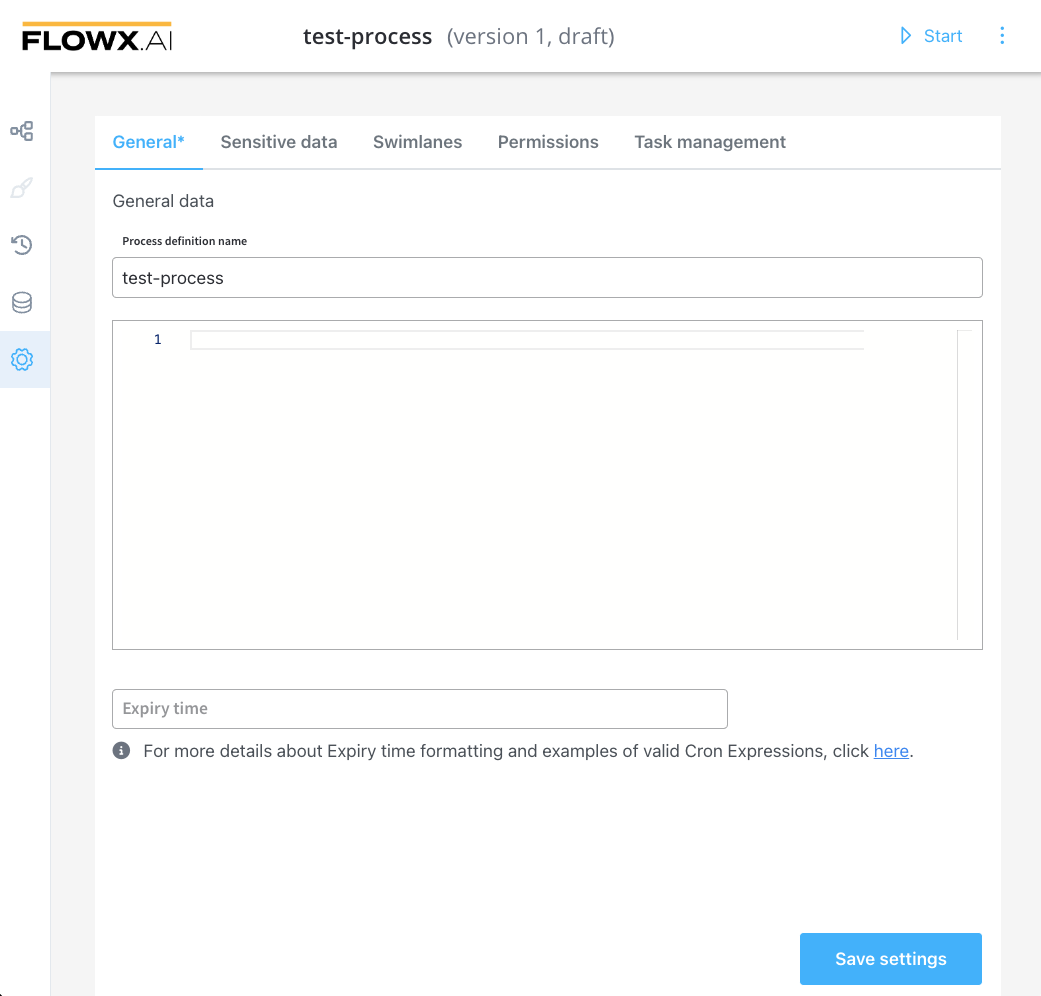
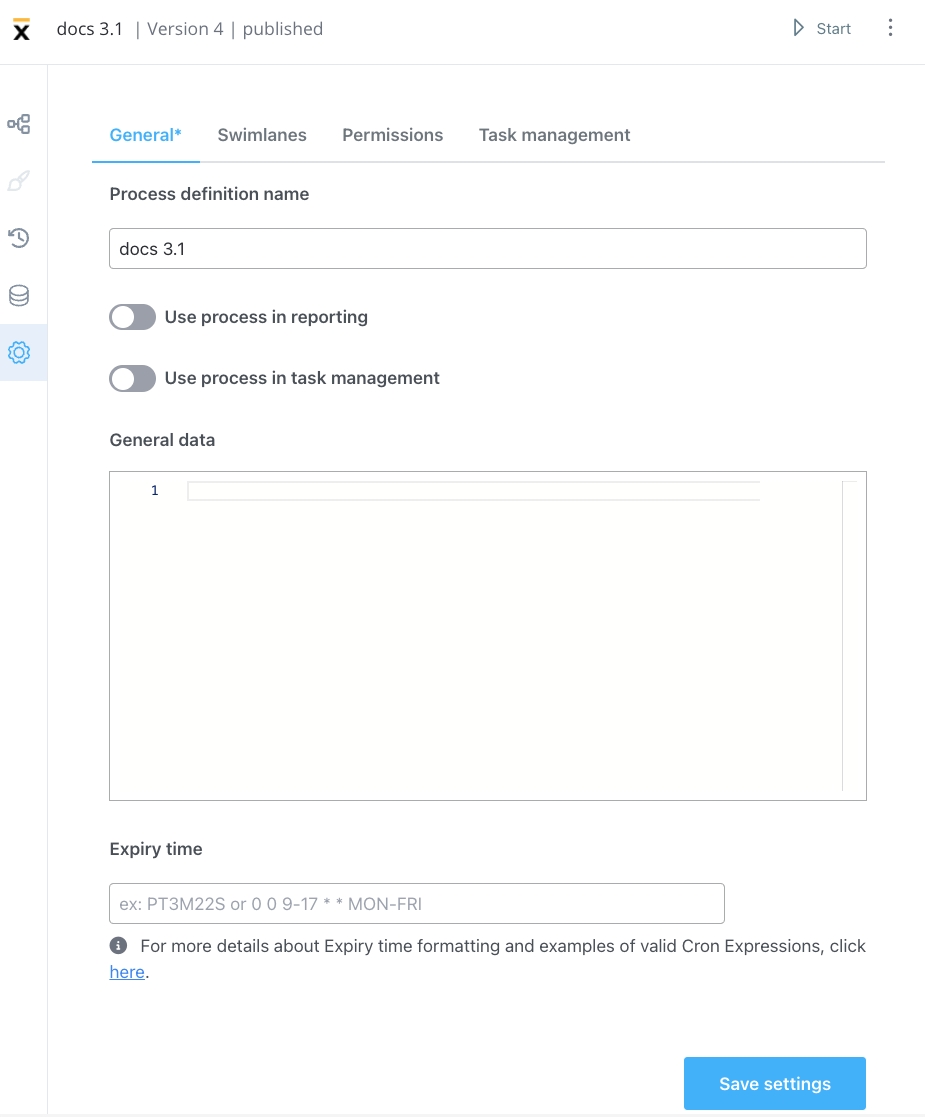
updates task management + fixes

diff --git a/docs/platform-deep-dive/plugins/custom-plugins/task-management/task-management.md b/docs/platform-deep-dive/plugins/custom-plugins/task-management/task-management.md
@@ -4,17 +4,25 @@ sidebar_position: 3
 
 # 📦 Task management
 
-### **What is Task management plugin?**
+### What is Task management plugin?
 
-:::info
-**What is it?** Task Management is a plugin suitable for back-officers and supervisors as it can be used to easily track and assign activities/tasks inside a company.
-
-**Why is it useful?** The Task Management plugin has the scope to show a process that you defined using FLOWX.AI Designer, using a more business-oriented view. It also offers interactions at the assignment level.
-:::
+Task management is a plugin that enables back-officers and supervisors to easily track and assign tasks within a company. It provides a business-oriented view of a process defined using FLOWX.AI Designer and allows interactions at the assignment level.
 
 ![Task Manager](../../../img/task_management_overview.gif)
 
-Inside the **Task details** tab you can find the following information about a process:
+Inside the **Task Manager → All tasks** you can find the **Activities** tab which consists of the following items:
+
+* **Title** - title of the task
+* **Stage** - specific [stages](./using-stages.md) during the execution of a process
+* **Assignee** - assignee of the process
+* **Status** - status of the process, more details [here](#process-status-updates)
+* **Priority** - to prioritize the tasks
+* **Last updated** - timestamp for latest updates
+* **Search** - the search function is used to look for keys stored on the process
+
+![](../../../img/indexed_keys.png)
+
+The **Task details** tab within the **Task Manager** displays key information about a process, such as:
 
 * **Priority** - to prioritize the tasks
 * **Status** - the status of a process
@@ -25,12 +33,19 @@ Inside the **Task details** tab you can find the following information about a p
 ![Task details](../../../img/task_mngmnt_task_details.png)
 
 :::caution
-Specific roles need to be defined in a process to use all the task management features. For more details, check the [Configuring access roles for processes](../../../../platform-setup-guides/flowx-engine-setup-guide/configuring-access-roles-for-processes.md) section.
+It is important to note that specific roles must be defined in a process to use all the task management features. More information about configuring access roles for processes can be found in the [Configuring access roles for processes](../../../../platform-setup-guides/flowx-engine-setup-guide/configuring-access-roles-for-processes.md) section.
 :::
+
+:::caution
+To enable Task Manager to retrieve information about tasks performed on a process make sure **Use process in task management** toggle is switched on. To do this go to **Process definition → Settings → General**.
+:::
+
 
 ### Statuses & Definitions in Task Manager
 
-There are multiple statuses that Task Manager could display, depending on the state of the process.
+Task Manager displays multiple statuses, depending on the state of the process.
+
+#### Process status updates
 
 | Status        | Definition                                                                                                                                                                                                                                                                                                                                                                                                                                                                                                                |
 | ------------- | ------------------------------------------------------------------------------------------------------------------------------------------------------------------------------------------------------------------------------------------------------------------------------------------------------------------------------------------------------------------------------------------------------------------------------------------------------------------------------------------------------------------------- |
@@ -41,20 +56,39 @@ There are multiple statuses that Task Manager could display, depending on the st
 | **Expired**   | <p>This status is displayed when <code>expiryTime</code> field is defined inside the process definition. A user can set up an <code>expiryTime</code> function, by following these steps:</p><ol><li>Go to <strong>FLOWX Designer > Processes > Definitions</strong>.</li><li>Select a process and then click on the "<strong>⋮</strong>" <strong></strong> button then select <strong>Settings.</strong></li><li>Inside the <strong>General</strong> tab, you can edit the <strong>Expiry time</strong> field.</li></ol> |
 | **Aborted**   | This status is available for processes that also contain subprocesses. When a subprocess is running (and the [token is moved backward](https://docs.flowx.ai/flowx-designer/managing-a-process-flow/moving-a-token-backwards-in-a-process) to redo a series of previous actions) - the subprocess will be aborted.                                                                                                                                                                                                        |
 | **Dismissed** | This status is available for processes that also contain subprocesses. This status is displayed when a user stops a subprocess                                                                                                                                                                                                                                                                                                                                                                                            |
-| **On hold**   | The process cannot be edited anymore. A superuser can trigger this status so he can block actions on the process until further clarification - unfreeze.                                                                                                                                                                                                                                                                                                                                                                  |
+| **On hold**   | The process cannot be edited anymore. A superuser can trigger this status, so he can block actions on the process until further clarification - unfreeze.                                                                                                                                                                                                                                                                                                                                                                 |
+|               |                                                                                                                                                                                                                                                                                                                                                                                                                                                                                                                           |
+
+#### Swimlanes updates
+
+| Status             | Definition                            |
+| ------------------ | ------------------------------------- |
+| **Swimlane enter** | When the token enters a new swimlane. |
+| **Swimlane exit**  | When the token exits a swimlane.      |
+
+
+#### Stages updates 
+
+| Status          | Definition                         |
+| --------------- | ---------------------------------- |
+| **Stage enter** | When the token enters a new stage. |
+| **Stage exit** | When the token exits a stage.      |
+
 
 ### Using the plugin
 
-The Task Manager plugin allows its users to see a list of tasks and perform the required actions. Based on their roles, users can perform the following actions using Task Manager:
+The Task Manager plugin allows users to view a list of tasks and perform various actions based on their roles:
 
 * Assign/unassign a task
 * Put the process on HOLD
 * Add comments
-* View Application
+* View Application - the URL of your application (could be also a generic parameter defined as a URL)
 
 :::info
-You can also set Task Manager to send more information about your process by switching on **Update task management?** button. This will enable the Task manager plugin to send additional information like title, priority, or metadata. You can set up this action for multiple nodes.
+You can also set Task Manager to send more information about your process by switching on **Update task management?** button at node level. This will enable the Task manager plugin to send additional information like title, priority, or metadata. You can set up this action for multiple nodes.
 :::
+
+Standard information that is sent to Task Management plugin:
 
 **To set up Task Management to send extra updates on your process, follow the next steps:**
 
@@ -69,6 +103,6 @@ You can also set Task Manager to send more information about your process by swi
 Some actions might not be available as they can be performed based on user roles/access rights.
 :::
 
-To find out more about how to configure the Task Manager plugin, check the [Task Management plugin setup](../../plugins-setup-guide/task-management-plugin-setup/) section.
+For more information about configuring the Task Manager plugin, refer to the [Task Management plugin setup](../../plugins-setup-guide/task-management-plugin-setup/) section.
 
 [Task Management plugin setup](../../plugins-setup-guide/task-management-plugin-setup/)

diff --git a/release-notes/v3.1.0-march-2023/v3.1.0-march-2023.md b/release-notes/v3.1.0-march-2023/v3.1.0-march-2023.md
@@ -24,7 +24,7 @@ To undo or redo an action, users can simply click the corresponding icons in the
 
 ![](../img/undo_redo.gif)
 
-[Deployment guidelines v3.1](deployment-guidelines-v3.1.0#undoredo)
+[Deployment guidelines v3.1](./deployment-guidelines-v3.1.0.md#undoredo)
 
 #### New UI element: file preview
 
@@ -41,14 +41,14 @@ With this new feature, users can create more dynamic and interactive designs tha
 
 #### Generate data model 
 
-A data model can be generated using data values from a [process instance](../active-process/process-instance). This can be done by either merging the data model with an existing one or replacing it entirely.
+A data model can be generated using data values from a [process instance](../../docs/building-blocks/process/active-process/process-instance). This can be done by either merging the data model with an existing one or replacing it entirely.
 ![](../img/generate_data_model%20copy.gif)
 
 [Data model](../../docs/building-blocks/process/process-definition#data-model)
 
 ## **Fixed** 🔧
 
-* Fixed an issue where Engine and Advancing controller should be restarted.if the advancing controller DB is down for a couple of minutes.
+* Fixed an issue where [Engine](../../docs/platform-deep-dive/core-components/flowx-engine) and [Advancing controller](../../docs/platform-deep-dive/core-components/flowx-engine#advancing-controller) should be restarted if the advancing controller's database is down for a couple of minutes.
 * Fixed an issue where image preview is not displayed.
 * Fixed an issue where `GET child enumerations` request is not using the correct version.
 * Fixed an issue where the [scheduler](../../docs/platform-deep-dive/core-components/core-extensions/scheduler) was sending messages multiple times.
@@ -83,6 +83,8 @@ Here is a brief example: form → disabled = `true` + child form element: disabl
 * Added a new flag in process settings to use a process in task management.
 
 ![](../../docs/building-blocks/process/img/tsk_mng_proc.gif)
+
+[Task management](../../docs/platform-deep-dive/plugins/custom-plugins/task-management)
 
 ## **Known issues** 🙁
 

diff --git a/docs/platform-overview/frameworks-and-standards/event-driven-architecture-frameworks/intro-to-kafka-concepts.md b/docs/platform-overview/frameworks-and-standards/event-driven-architecture-frameworks/intro-to-kafka-concepts.md
@@ -23,9 +23,9 @@ Kafka encourages you to see the world as sequences of events, which it models as
 
 Because the world is filled with so many events, Kafka gives us a means to organize them and keep them in order: topics. A topic is an ordered log of events. When an external system writes an event to Kafka, it is appended to the end of a topic.
 
-In FLOWX.AI, Kafka handles all communication between the [FLOWX Engine ](../../../platform-deep-dive/core-components/flowx-engine.md) and external plugins and integrations. It is also used for notifying running process instances when certain events occur.  More information about KAFKA configuration on the section below:
+In FLOWX.AI, Kafka handles all communication between the [FLOWX Engine ](../../../platform-deep-dive/core-components/flowx-engine/flowx-engine.md) and external plugins and integrations. It is also used for notifying running process instances when certain events occur.  More information about KAFKA configuration on the section below:
 
-[Flowx engine setup guide](../../../platform-deep-dive/platform-setup-guide/flowx-engine-setup-guide/flowx-engine-setup-guide.md)
+[FLOWX engine setup guide](../../../platform-setup-guides/flowx-engine-setup-guide/flowx-engine-setup-guide.md)
 
 
 ### Producer

diff --git a/docs/building-blocks/process/process-definition/process-definition.md b/docs/building-blocks/process/process-definition/process-definition.md
@@ -139,14 +139,15 @@ In the General settings, you can edit the process definition name, include the p
 
 * **Process definition name** - edit process definition name
 * **Use process in reporting** - if switched on, the process will be included in reporting
+* **Use process in task management** - if switched on, tasks will be created and displayed in the Task manager plugin, more information [here](../../../platform-deep-dive/plugins/custom-plugins/task-management/task-management.md)
 * **General data** - data that you can set and receive on a response
 * **Expiry time** - a user can set up a `expiryTime` function on a process, for example, a delay of 30s will be set up like: `30 16 11 4 7 1`
 
-For more information about **Cron Expressions** and **ISO 8601** formatting, check the following section:
+For more information about **Cron Expressions** and **ISO 8601** formatting, check the following section;
 
 [Timer Expressions](../../../platform-overview/frameworks-and-standards/timer-expressions.md)
 
-![](../../../platform-deep-dive/img/process_settings.png)
+![](../img/process_settings.png)
 
 ### Swimlanes
 

diff --git a/docs/platform-deep-dive/plugins/plugins-setup-guide/documents-plugin-setup/documents-plugin-setup.md b/docs/platform-deep-dive/plugins/plugins-setup-guide/documents-plugin-setup/documents-plugin-setup.md
@@ -198,7 +198,12 @@ The file storage solution can be configured using the following environment vari
 
 `APPLICATION_FILE_STORAGE_S3_BUCKET_PREFIX`
 
-`APPLICATION_FILESTORAGE_PARTITIONSTRATEGY`
+`APPLICATION_FILESTORAGE_PARTITIONSTRATEGY` - used to set the partition strategy:
+* value `NONE` - saving documents in `minio/amazon-s3` will be done as before in a bucket for each process instance   
+* value `PROCESS_DATE` - documents will be saved in a single bucket, with a subfolder, for example: `bucket/2022/2022-07-04/process-id-xxxx/customer-id/file.pdf`         
+
+
+
 
 :::info
 Make sure to follow the recommended [bucket naming rules](https://docs.aws.amazon.com/AmazonS3/latest/userguide/bucketnamingrules.html) when choosing the bucket prefix name.
